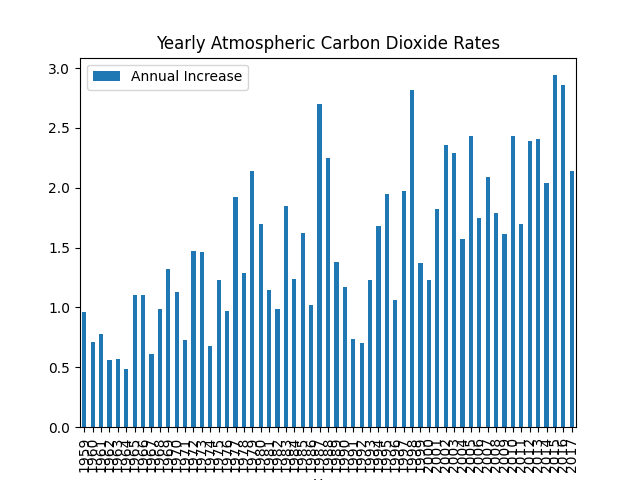
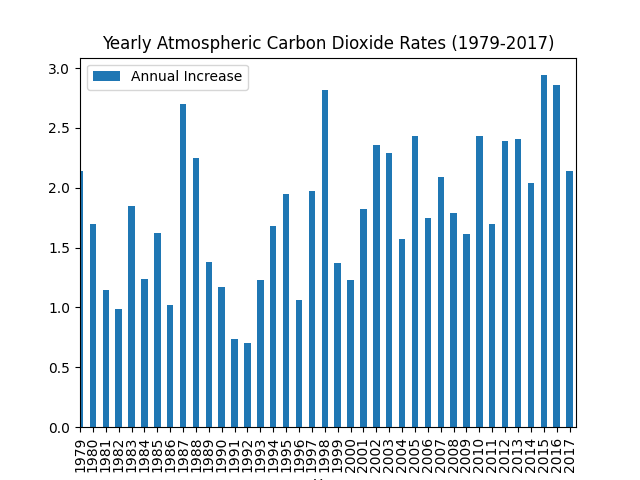
chart fix

Changed region(s): [[0.0938, 0.1562, 0.9062, 1.0], [0.1562, 0.0625, 0.875, 0.125]]

diff --git a/co2_emissions.py b/co2_emissions.py
@@ -12,7 +12,7 @@ resources = package.resources
 
 x_col = 'Year'
 y_col = 'Annual Increase'
-title = 'Yearly Atmospheric Carbon Dioxide Rates'
+title = 'Yearly Atmospheric Carbon Dioxide Rates (1979-2017)'
 
 
 def get_info_to_df(sources):
@@ -26,5 +26,6 @@ def get_info_to_df(sources):
 def make_save_barchart():
     df = get_info_to_df(resources)
     ax = df.plot.bar(x=x_col, y=y_col, title=title)
+    plt.xlim(20,)
     fig = ax.get_figure()
     fig.savefig('static/barchart.png')
